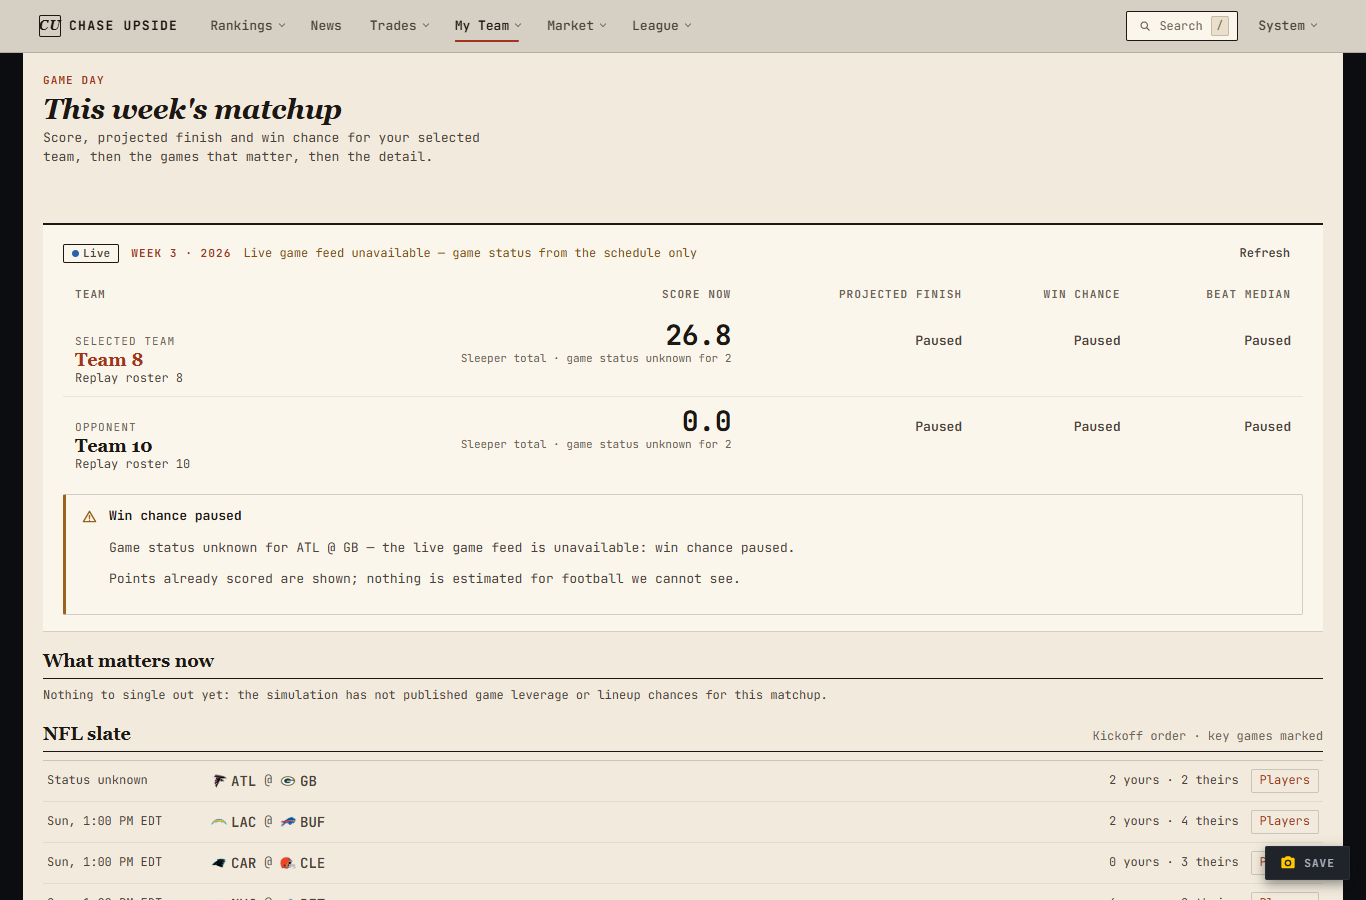
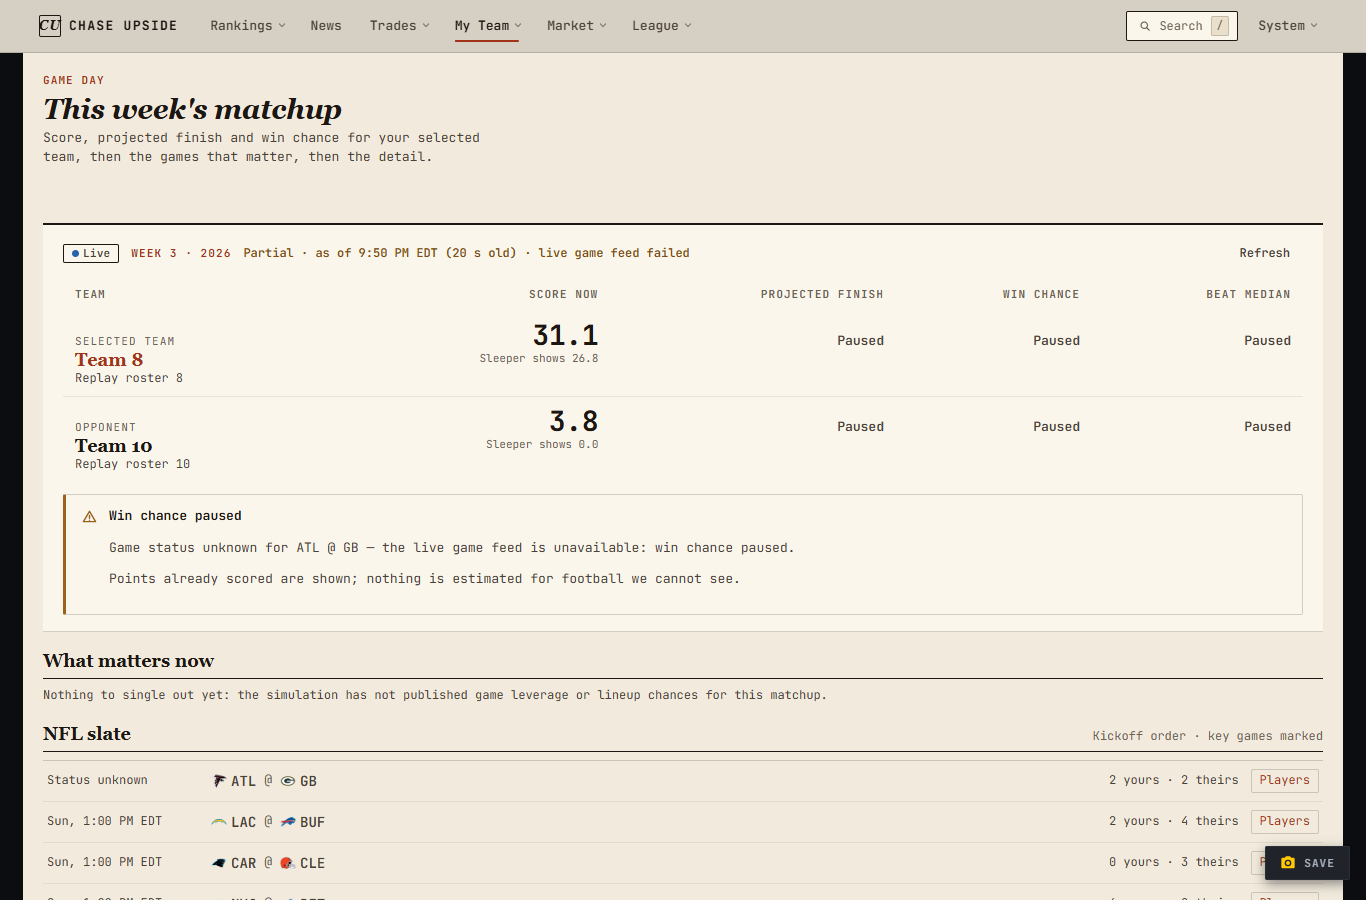
docs(game-day): refresh U7 local evidence on the merged core + collector tree
Seven states x desktop 1366 / phone 390 against collector-served replay
payloads: axe WCAG A/AA 0, no horizontal scroll, keyboard disclosure, Data
info per-source table on the ESPN-403 partial state; local E2E 16/16.
Not production evidence.

Agent-OS-Receipt: cdca1dca8385f70c0989302dece8d1bd4ce4843c

diff --git a/docs/game-day/evidence/U7_UI_2026-09-25/README.md b/docs/game-day/evidence/U7_UI_2026-09-25/README.md
@@ -1,55 +1,68 @@
 # Game Day U7 UI — local evidence (2026-09-25)
 
 **Scope:** local build evidence for the U7 Game Day UI on branch
-`claude/game-day-ui`, code commits `092b03a91` + `2ddc6d76c`. **Not production evidence** —
-nothing here was deployed; production verification remains a separate gate.
+`claude/game-day-ui`, after merging `claude/game-day-core` (68579b128:
+`scoreNow`, `actualLineup.unknownStatePlayerIds`, `beatMedianVerified`) and
+`claude/game-day-collector` (U5 collector + `freshness` block).
+**Not production evidence** — nothing here was deployed.
 
 ## How it was produced
 
-- `npm run build` (Next `--webpack`) of `2ddc6d76c`, served with
+- `npm run build` (Next `--webpack`) of the branch head, served with
   `next start -p 3100`.
-- A local mock backend answered `/api/matchup/intel` with the generated
-  replay payloads in `frontend/__tests__/fixtures/game-day/*.json` (built from
-  the U4 replay captures by `tests/game_day/ui_payloads.py`; each file's
-  `_fixture.description` says which inputs are real captures and which are
-  labelled synthetic), `/api/leagues` with one league (`dynasty_main`) and
-  `/api/auth/status` as authenticated. Everything else 404s (no contract,
-  no user state) — the shell's degraded chrome is not part of this evidence.
+- `/api/matchup/intel` answered with the generated payloads in
+  `frontend/__tests__/fixtures/game-day/*.json`. `tests/game_day/ui_payloads.py`
+  builds them on the production path: the U5 collector ticks over the U4
+  replay captures (network clients replaced by the captures), writes a
+  generation, and `build_matchup_intel` SERVES it with its `freshness` block.
+  `tests/game_day/test_game_day_ui_fixtures.py` pins byte equality. Each file's
+  `_fixture.description` names what is a real capture and what is labelled
+  synthetic. `/api/leagues` / `/api/auth/status` answered by a local mock;
+  everything else 404s (no contract) — the shell's degraded chrome is not
+  part of this evidence.
 - Team names are replay labels (`Team 8`, `Team 10`), not real managers.
-- Playwright + Chromium 145 with `@axe-core/playwright`, WCAG 2.0/2.1 A+AA
-  tags, scan scoped to `main`. Viewports: desktop 1366x900, phone 390x844
+- Playwright + Chromium 145 with `@axe-core/playwright`, WCAG 2.0/2.1 A+AA,
+  scan scoped to `main`. Viewports: desktop 1366x900, phone 390x844
   (`isMobile`, touch).
 
 ## Results (`results.json`)
 
-| scenario | desktop 1366 | phone 390 |
+| scenario | freshness | desktop 1366 | phone 390 |
+|---|---|---|---|
+| pregame (synthetic clock over real inputs) | current | axe 0, no h-scroll | axe 0, no h-scroll |
+| halftime (real capture) | current | axe 0, no h-scroll | axe 0, no h-scroll |
+| overtime (synthetic; win chance withheld) | current | axe 0, no h-scroll | axe 0, no h-scroll |
+| mixed slate (synthetic, every game stage) | current | axe 0, no h-scroll | axe 0, no h-scroll |
+| week final (synthetic) | current | axe 0, no h-scroll | axe 0, no h-scroll |
+| live feed down (ESPN HTTP 403) | **partial** | axe 0, no h-scroll | axe 0, no h-scroll |
+| stale (served 2 h after the last tick) | **stale** | axe 0, no h-scroll | axe 0, no h-scroll |
+
+- Keyboard (halftime, both viewports): "Best-ball details" reached with Tab,
+  opened with Enter; with it and the GB@ATL player table open, axe 0 and no
+  sideways scroll (`halftime-*-details-open.png`, `halftime-*-bestball-open.png`).
+- Data info open on the partial state, per-source table visible with the ESPN
+  row "error (http_error:403)": axe 0, no sideways scroll
+  (`live-feed-down-*-data-info.png`). The first E2E run caught this table
+  overflowing the phone (`scrollable-region-focusable`); cells now wrap.
+
+## Committed E2E
+
+`tests/e2e/specs/game-day.spec.js` — the same payloads served through
+`page.route` (no network). Run locally against this build
+(`E2E_BASE_URL` = local mock backend, `E2E_PAGE_ORIGIN` = `next start`):
+**16 passed** on `desktop-1366` and `mobile-chromium` (pregame, halftime,
+overtime, live-feed-down, stale, week-final states; keyboard disclosure +
+opened detail axe; refresh without blanking — old numbers stay on screen
+under "Updating this matchup…", then update in place with the same DOM root,
+Data info still open, focus still on Refresh). The webkit phone projects
+(`mobile-390`/`mobile-430`) were not run locally (no webkit installed).
+
+## Bundle (first-load = sum of the `<script src>` chunks in each route's prerendered HTML)
+
+| route | base `origin/claude/game-day-core` (pre-U7) | this head |
 |---|---|---|
-| pregame (synthetic clock over real inputs) | axe 0, no h-scroll | axe 0, no h-scroll |
-| halftime (real capture) | axe 0, no h-scroll | axe 0, no h-scroll |
-| overtime (synthetic, win chance withheld) | axe 0, no h-scroll | axe 0, no h-scroll |
-| mixed slate (synthetic, every game stage) | axe 0, no h-scroll | axe 0, no h-scroll |
-| week final (synthetic) | axe 0, no h-scroll | axe 0, no h-scroll |
-| live feed down (real capture, feed failure) | axe 0, no h-scroll | axe 0, no h-scroll |
-
-Keyboard (halftime, both viewports): the "Best-ball details" disclosure is
-reached with Tab, opens with Enter (`aria-expanded="true"`); with it and the
-GB@ATL player table open, axe is still 0 and the page still does not scroll
-sideways (`*-details-open.png`, `*-bestball-open.png`).
-
-First run of this harness found, and the commit fixed: the legacy global
-`th` style painting a dark sticky background behind the scoreboard headers
-(11–15 contrast failures), and a 5-column scoreboard / per-game table pushing
-the phone layout to 543 px. The screenshots then showed the live-feed-down
-state reading "Score now 0.0 · No players have played yet" beside Sleeper's
-26.8 (the canonical current lineup seats only observed-begun players);
-`2ddc6d76c` shows the labelled Sleeper total instead.
-
-## Bundle (same machine; first-load = sum of the `<script src>` chunks in each route's prerendered HTML)
-
-| route | base `origin/claude/game-day-core` | this commit |
-|---|---|---|
-| `/game-day` page chunk | 34.0 KB | 32.0 KB |
-| `/game-day` first-load JS | 700.0 KB | 704.6 KB (+4.6 KB) |
+| `/game-day` page chunk | 34.0 KB | 34.8 KB |
+| `/game-day` first-load JS | 700.0 KB | 707.4 KB (+7.4 KB) |
 | `/trades` first-load JS | 720.8 KB | 720.9 KB |
 | budgeted pages | all under budget | all under budget |
 
